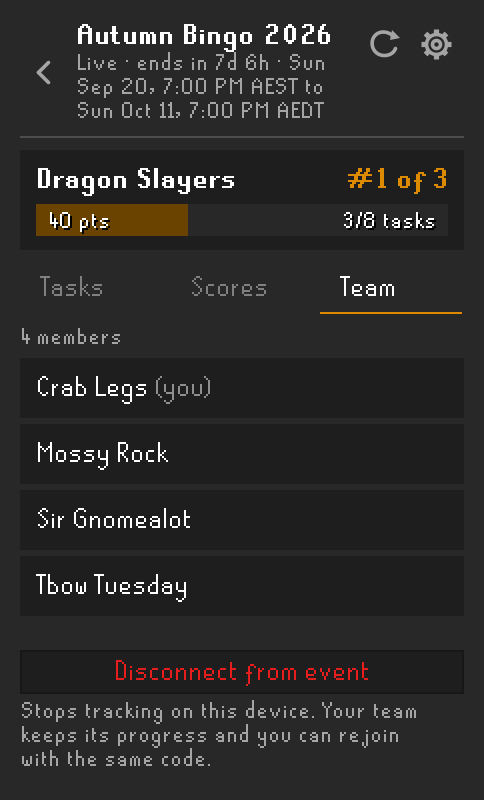
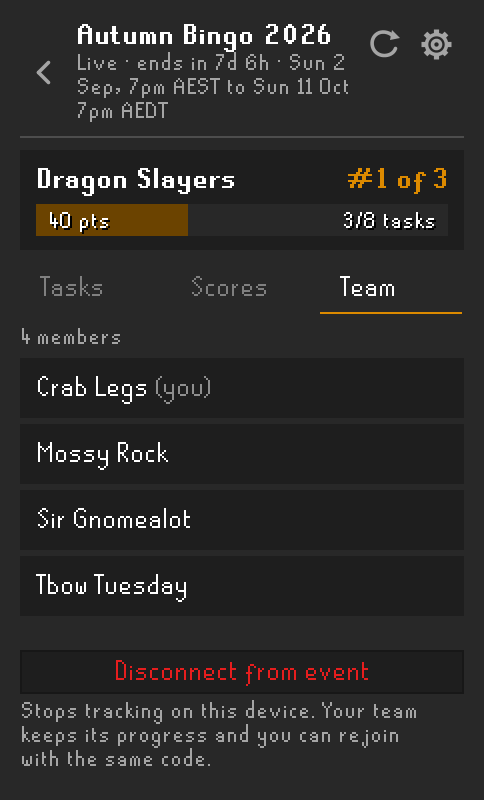
style: use australian time format

Changed region(s): [[0.2479, 0.0625, 0.7128, 0.1562], [0.155, 0.125, 0.2169, 0.1562]]

diff --git a/src/main/java/com/tsghub/TsgHubUi.java b/src/main/java/com/tsghub/TsgHubUi.java
@@ -62,10 +62,11 @@ final class TsgHubUi
 	static final Color SUCCESS = ColorScheme.PROGRESS_COMPLETE_COLOR;
 	static final Color ERROR = ColorScheme.PROGRESS_ERROR_COLOR;
 	static final Color WARNING = new Color(230, 180, 60);
-	private static final DateTimeFormatter DATE_WITH_YEAR = DateTimeFormatter.ofPattern("MMM d, yyyy", java.util.Locale.US);
-	private static final DateTimeFormatter WHEN = DateTimeFormatter.ofPattern("EEE MMM d, h:mm a", java.util.Locale.US);
-	private static final DateTimeFormatter WHEN_WITH_YEAR = DateTimeFormatter.ofPattern("EEE MMM d yyyy, h:mm a", java.util.Locale.US);
-	private static final DateTimeFormatter CLOCK = DateTimeFormatter.ofPattern("h:mm a", java.util.Locale.US);
+	private static final DateTimeFormatter DATE_WITH_YEAR = DateTimeFormatter.ofPattern("d MMM yyyy", java.util.Locale.US);
+	private static final DateTimeFormatter DAY = DateTimeFormatter.ofPattern("EEE d MMM", java.util.Locale.US);
+	private static final DateTimeFormatter DAY_WITH_YEAR = DateTimeFormatter.ofPattern("EEE d MMM yyyy", java.util.Locale.US);
+	private static final DateTimeFormatter HOUR = DateTimeFormatter.ofPattern("h", java.util.Locale.US);
+	private static final DateTimeFormatter HOUR_MINUTE = DateTimeFormatter.ofPattern("h:mm", java.util.Locale.US);
 	private static final DateTimeFormatter ZONE = DateTimeFormatter.ofPattern("zzz", java.util.Locale.US);
 	private static final ZoneId CLAN_ZONE = ZoneId.of("Australia/Sydney");
 	static Clock clock = Clock.systemUTC();
@@ -420,20 +421,34 @@ final class TsgHubUi
 		return when.atZone(zone).format(DATE_WITH_YEAR);
 	}
 
+	private static String clock(ZonedDateTime time, boolean meridiem)
+	{
+		String text = time.format(time.getMinute() == 0 ? HOUR : HOUR_MINUTE);
+		return meridiem ? text + (time.getHour() < 12 ? "am" : "pm") : text;
+	}
+
 	private static String day(ZonedDateTime time, Instant now)
 	{
-		return time.format(time.getYear() == now.atZone(time.getZone()).getYear() ? WHEN : WHEN_WITH_YEAR);
+		return time.format(time.getYear() == now.atZone(time.getZone()).getYear() ? DAY : DAY_WITH_YEAR);
+	}
+
+	private static String when(ZonedDateTime time, Instant now)
+	{
+		return day(time, now) + ", " + clock(time, true);
 	}
 
 	static String timeRange(Instant start, Instant end, ZoneId zone, Instant now)
 	{
 		if (start == null) return "Time TBD";
 		ZonedDateTime from = start.atZone(zone);
-		if (end == null) return day(from, now) + " " + zoneName(from);
+		if (end == null) return when(from, now) + " " + zoneName(from);
 		ZonedDateTime to = end.atZone(zone);
 		boolean sameZone = zoneName(from).equals(zoneName(to));
-		String until = from.toLocalDate().equals(to.toLocalDate()) ? to.format(CLOCK) : day(to, now);
-		return day(from, now) + (sameZone ? "" : " " + zoneName(from)) + " to " + until + " " + zoneName(to);
+		boolean sameDay = from.toLocalDate().equals(to.toLocalDate());
+		if (sameDay && sameZone)
+			return day(from, now) + ", " + clock(from, from.getHour() < 12 != to.getHour() < 12) + "-" + clock(to, true) + " " + zoneName(to);
+		String until = sameDay ? clock(to, true) : when(to, now);
+		return when(from, now) + (sameZone ? "" : " " + zoneName(from)) + " to " + until + " " + zoneName(to);
 	}
 
 	static String span(Duration duration)

diff --git a/src/test/java/com/tsghub/EventTimesTest.java b/src/test/java/com/tsghub/EventTimesTest.java
@@ -24,10 +24,10 @@ public class EventTimesTest
 	{
 		Instant start = Instant.parse("2026-10-05T08:00:00Z");
 		Instant end = Instant.parse("2026-10-05T10:30:00Z");
-		assertEquals("Mon Oct 5, 4:00 PM to 6:30 PM AWST", TsgHubUi.timeRange(start, end, PERTH, NOW));
-		assertEquals("Mon Oct 5, 6:30 PM to 9:00 PM ACDT", TsgHubUi.timeRange(start, end, ADELAIDE, NOW));
-		assertEquals("Mon Oct 5, 6:00 PM to 8:30 PM AEST", TsgHubUi.timeRange(start, end, BRISBANE, NOW));
-		assertEquals("Mon Oct 5, 7:00 PM to 9:30 PM AEDT", TsgHubUi.timeRange(start, end, SYDNEY, NOW));
+		assertEquals("Mon 5 Oct, 4-6:30pm AWST", TsgHubUi.timeRange(start, end, PERTH, NOW));
+		assertEquals("Mon 5 Oct, 6:30-9pm ACDT", TsgHubUi.timeRange(start, end, ADELAIDE, NOW));
+		assertEquals("Mon 5 Oct, 6-8:30pm AEST", TsgHubUi.timeRange(start, end, BRISBANE, NOW));
+		assertEquals("Mon 5 Oct, 7-9:30pm AEDT", TsgHubUi.timeRange(start, end, SYDNEY, NOW));
 	}
 
 	@Test
@@ -35,16 +35,17 @@ public class EventTimesTest
 	{
 		Instant start = Instant.parse("2026-09-20T09:00:00Z");
 		Instant end = Instant.parse("2026-10-11T08:00:00Z");
-		assertEquals("Sun Sep 20, 7:00 PM AEST to Sun Oct 11, 7:00 PM AEDT", TsgHubUi.timeRange(start, end, SYDNEY, NOW));
-		assertEquals("Sun Sep 20, 7:00 PM to Sun Oct 11, 6:00 PM AEST", TsgHubUi.timeRange(start, end, BRISBANE, NOW));
+		assertEquals("Sun 20 Sep, 7pm AEST to Sun 11 Oct, 7pm AEDT", TsgHubUi.timeRange(start, end, SYDNEY, NOW));
+		assertEquals("Sun 20 Sep, 7pm to Sun 11 Oct, 6pm AEST", TsgHubUi.timeRange(start, end, BRISBANE, NOW));
 	}
 
 	@Test
 	public void openEndedAndOtherYears()
 	{
 		Instant start = Instant.parse("2027-01-02T09:00:00Z");
-		assertEquals("Sat Jan 2 2027, 8:00 PM AEDT", TsgHubUi.timeRange(start, null, SYDNEY, NOW));
+		assertEquals("Sat 2 Jan 2027, 8pm AEDT", TsgHubUi.timeRange(start, null, SYDNEY, NOW));
 		assertEquals("Time TBD", TsgHubUi.timeRange(null, null, SYDNEY, NOW));
+		assertEquals("Mon 5 Oct, 11:30am-1pm AEDT", TsgHubUi.timeRange(Instant.parse("2026-10-05T00:30:00Z"), Instant.parse("2026-10-05T02:00:00Z"), SYDNEY, NOW));
 	}
 
 	@Test

diff --git a/src/test/java/com/tsghub/DropsPanelTest.java b/src/test/java/com/tsghub/DropsPanelTest.java
@@ -58,7 +58,7 @@ public class DropsPanelTest
 		assertEquals("5m ago", TsgHubSidebarPanel.dropAge("2026-09-28T11:54:59.500Z", now));
 		assertEquals("3h ago", TsgHubSidebarPanel.dropAge("2026-09-28T09:00:00Z", now));
 		assertEquals("2d ago", TsgHubSidebarPanel.dropAge("2026-09-26T12:00:00Z", now));
-		assertEquals("Jul 1, 2026", TsgHubSidebarPanel.dropAge("2026-07-01T12:00:00Z", now));
+		assertEquals("1 Jul 2026", TsgHubSidebarPanel.dropAge("2026-07-01T12:00:00Z", now));
 		assertEquals("", TsgHubSidebarPanel.dropAge("", now));
 	}
 

diff --git a/README.md b/README.md
@@ -49,7 +49,7 @@ Tasks can be **Team** (everyone's progress pools together), **Everyone** (each m
 
 **Custom events**, like drop parties, show when and where they happen, along with the host and any notes.
 
-Every event shows its start and end in your own time zone, with the zone name (for example "Mon Oct 5, 7:00 PM AEDT") and how long until it starts or ends. Competitions count gains made between those exact times, wherever you are.
+Every event shows its start and end in your own time zone, with the zone name (for example "Mon 5 Oct, 7pm AEDT") and how long until it starts or ends. Competitions count gains made between those exact times, wherever you are.
 
 <p>
 <img src="docs/images/competition.png" width="320" alt="Skill of the Week leaderboard">
